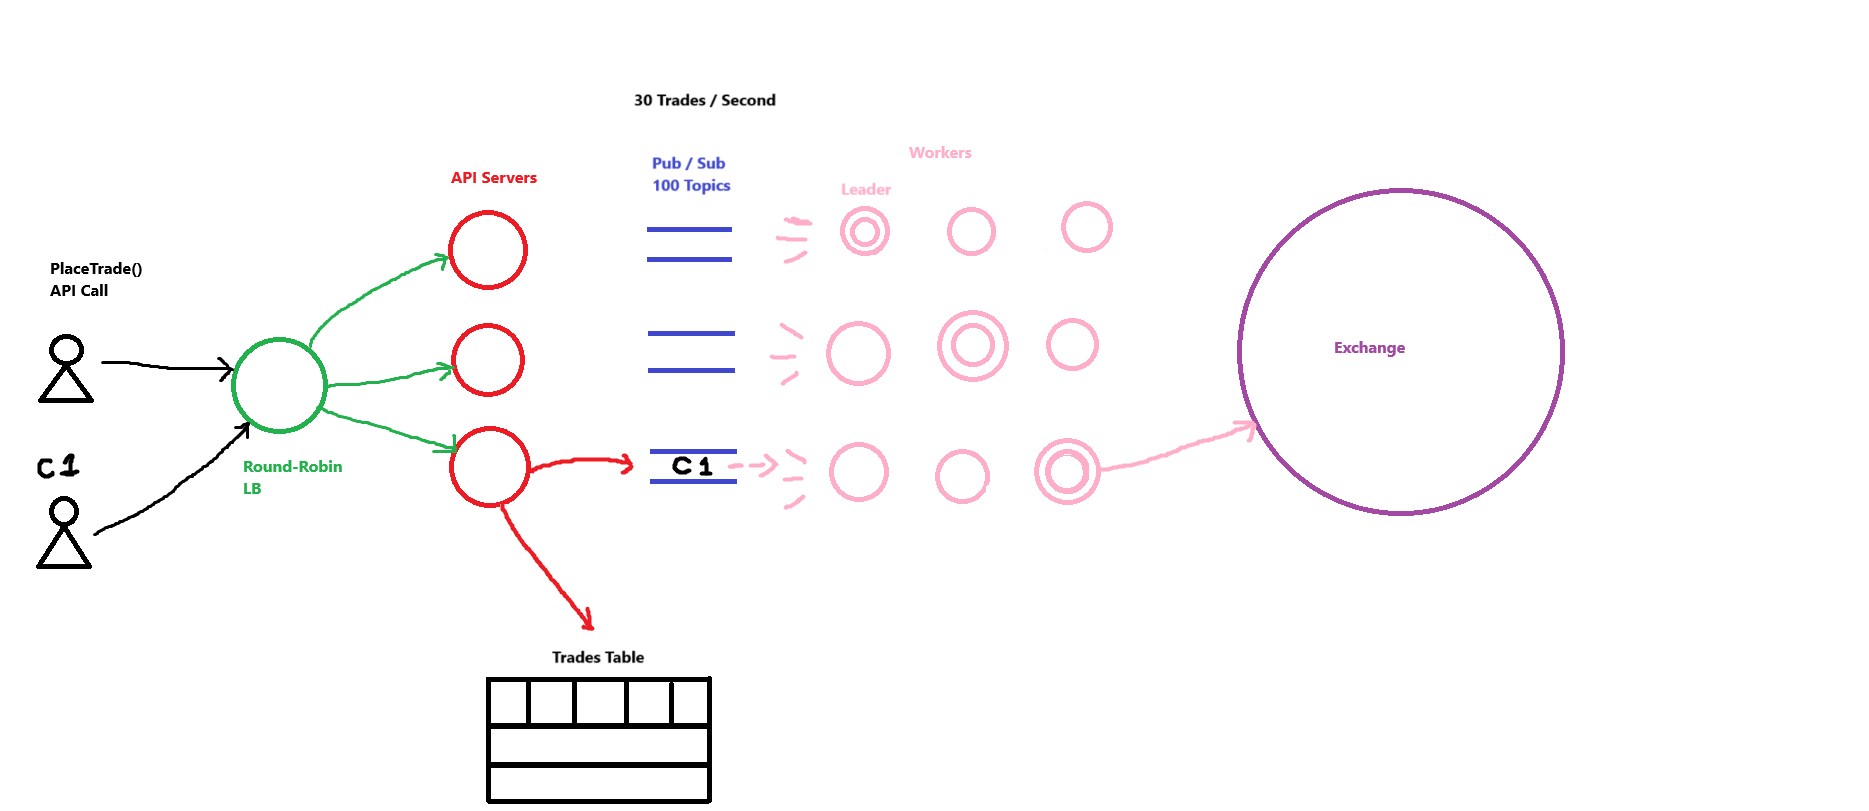
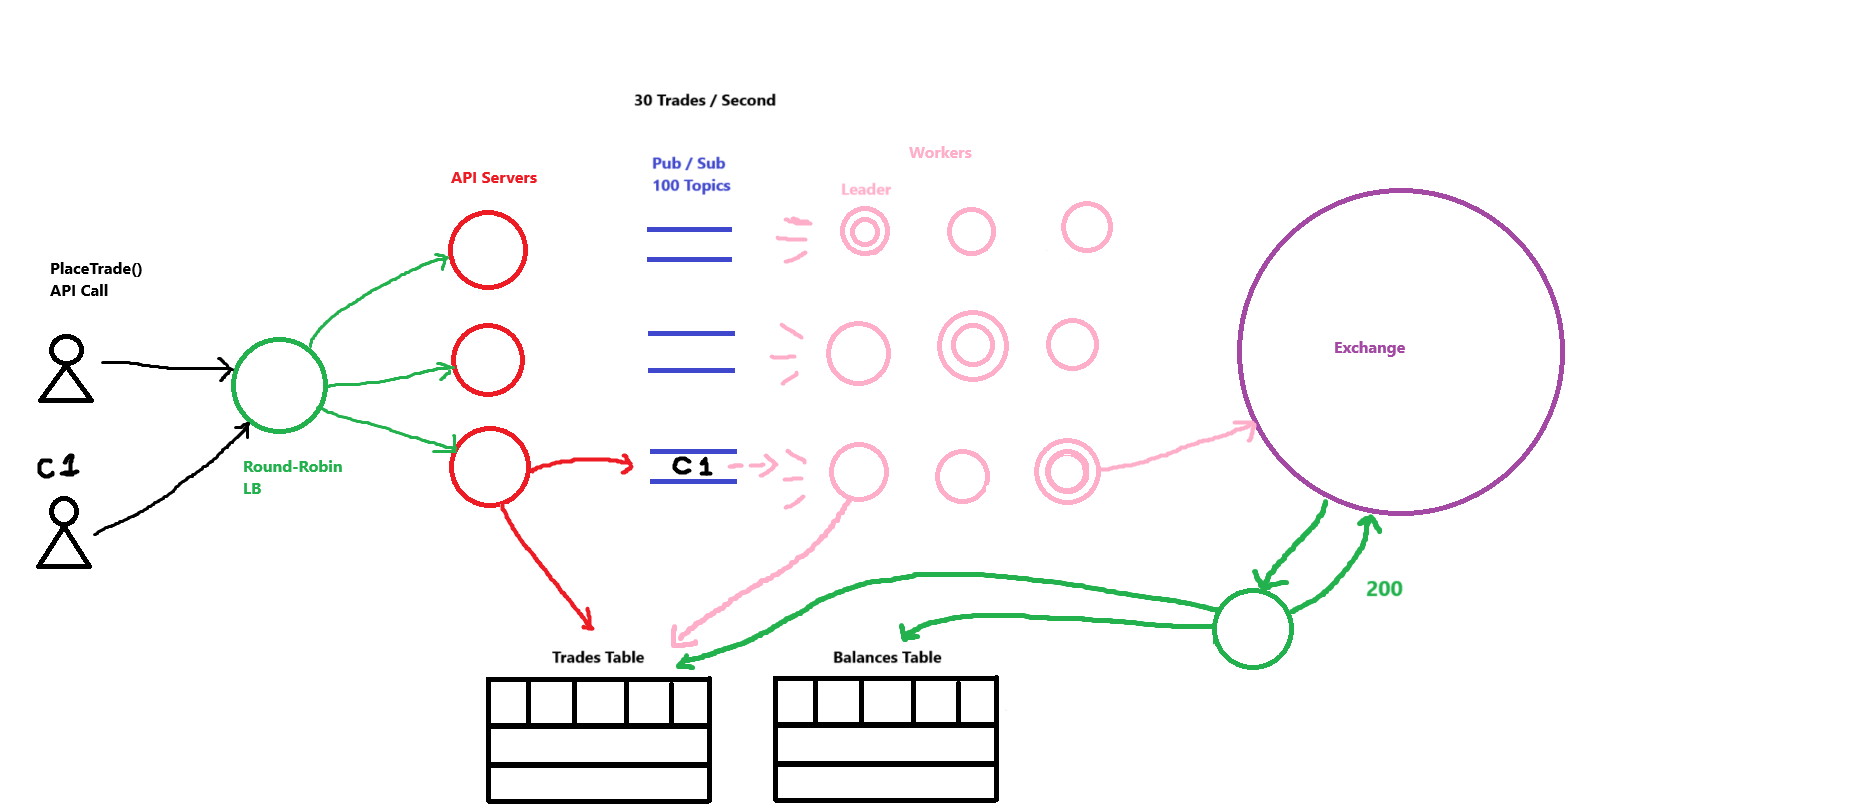
Added the callback function part of the question. The system still needs to be expanded a little bit more

diff --git a/SystemsExpert/design-a-stockbroker.md b/SystemsExpert/design-a-stockbroker.md
@@ -75,13 +75,14 @@ This makes the platform future proof, for adding functionality for listing trade
 The table could look like this:
 ### trades 
 - id INT // Primary key, Auto Incremented Integer or randomly generated String
-- customer_id UUID_VALUE
+- customer_id UUID_VALUE (Index on this column)
 - stock_ticker VARCHAR(6)
 - type ENUM('buy', 'sell')
 - quant INT
 - status ENUM('placed', 'executed', 'filled', 'rejected')
 - reason VARCHAR(100) // A human readable reason of why a trade was rejected or filled
-- c_at DATE
+- created_at DATE
+- executed_at DATE
 
 ### balances
 - id INT // Primary key, Auto Incremented Integer or randomly generated String
@@ -153,5 +154,41 @@ The message contains only the "customer_id". And by querying the database, the w
 On the exchange, the system would wait until the exchange has a response for the trade which are "placed". But if the least recent trade has been "executed", then the new trade gets "placed".
 
 SQL Query of the least recent trade:
+```SQL
+SELECT * FROM trades WHERE customer_id = 'c1' AND (status = 'placed' OR status = 'executed') ORDER BY created_at ASC LIMIT 1;
+```
+
+If there is another trade from the specific Customer Id which is in 'placed' state. Then the API would make an API Call to the exchange's API and mark the status of the previous trade as 'executed'. The goal is to never have a trade to hang.
+
+On the call to the API of the exchange, there will be a callback to the exchange that will be sent.
+- This callback function would be in charge of updating the balances table and the trades table.
+- It would be also in charge of marking the status of the trade as 'filled' or 'rejected'.
+- The callback function is guaranteed to be called by the exchange.
+
+Then the message can be marked as done. Meaning that it can be left out of the messaging topic.
+
+If the status of the trade is 'executed', then the worker would make an API Request to the Exchange's API to see if the trade is still 'executed' and not in 'filled' or 'rejected' state. If that's the case, then it would just wait. Then eventually, the trade would be modified by the callback function, changing the status from 'executed' to either 'filler' or 'rejected'.
+- The same would happen by trades that are 'placed'. They would change to 'executed' instead by the callback function.
+
+## The Callback Function
+The Exchange would call the callback function when the trade completes. If the order gets 'filled', the exchange's API would make a request to either a worker server, or a separate server. This request would query or write to the "balances" and the "trades" tables.
+- It would update the "state", and the "reason" of the trade on the "trades" table.
+- It would update the "balance" for the "customer_id" on the "balances" table.
+
+This logic should not be executed more than once by any means. Therefore, there must be an "if statement" in which rollbacks the transaction if the trade has already been completed. Updating the customer balance is not an idempotent operation, and should be treated as such.
+
+The callback would then:
+- If the trade is a buy order, would deduct the balance from the "customer_id"
+```SQL
+UPDATE balances (amount) SET ... WHERE customer_id = 'c1';
+```
+- Then would change the status of the trade, to 'filled'. It would also modify the "reason", which is equal for every "filled" trade, and the "executed_at" which would be given by the exchange at the time of execution
+```SQL
+UPDATE trades (status, reason, executed_at) SET status = 'filled', reason = 'Trade Completed', executed_at = GETDATE() WHERE id = ...;
+```
+
+If dealing with a rejected order, then the update balance query would not happen. But it would still update the "status" to 'rejected'. The trade "reason" to the reason why it was rejected. And would still call the "GETDATE()" function on the "executed_at" column.
+
+After the queries has been fulfilled, the server updating the tables would return a 200 message to the Exchange's API. 
 
 ![stockbroker-design](./design-a-stockbroker.png)
